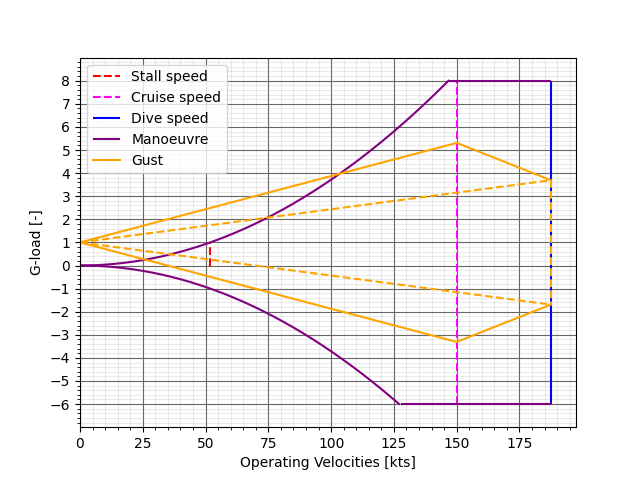
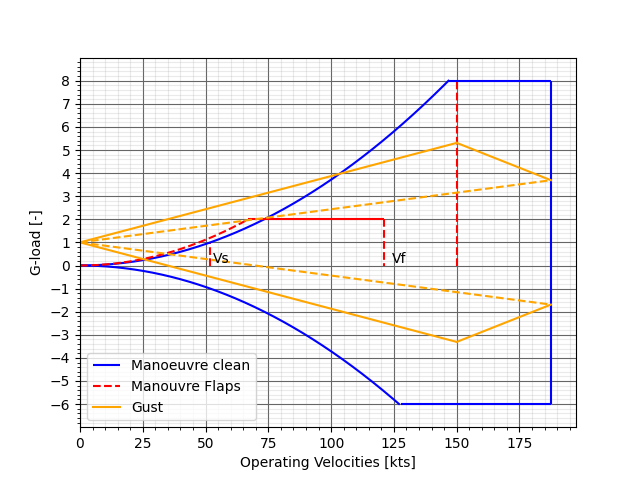
Fix vn

diff --git a/Performance/manoeuvreDiagram.py b/Performance/manoeuvreDiagram.py
@@ -18,18 +18,24 @@ n_max = 8
 n_min = -6
 wing_loading = W / S
 
+CLmax_flap = 1.92
+
+# Gust load parameters
 mu_g = (2 * wing_loading) / (density * MAC * a * 9.80065)
 k_g = (0.88 * mu_g) / (5.3 + mu_g)
 U_de_cruise = 0.3048 * 50
 U_de_dive = 0.3048 * 25
 
+# Speed initializations
 V = np.linspace(0, 160 * metersps, 1000)
 V_cruise = 150 * 0.514444
 V_dive = 1.25 * V_cruise
 q = 0.5 * V ** 2  * density
 
-n_pos = (q * CNmax * S) / W
-n_neg = (q * -CNmax * S) / W
+n_posClean = (q * CNmax * S) / W
+n_negClean = (q * -CNmax * S) / W
+
+n_posFlap = (q * CLmax_flap * S) / W
 
 n_gust_cruise_pos = 1 + (
     (k_g * density * U_de_cruise * V_cruise * a) / (2 * wing_loading)
@@ -42,43 +48,46 @@ n_gust_dive_pos = 1 + ((k_g * density * U_de_dive * V_dive * a) / (2 * wing_load
 n_gust_dive_neg = 1 - ((k_g * density * U_de_dive * V_dive * a) / (2 * wing_loading))
 
 for i in range(len(V)):
-    # if mt.isclose(n_pos[i], 1, rel_tol=0.01):
+    # if mt.isclose(n_posClean[i], 1, rel_tol=0.01):
     #     V_stall = V[i]
-    if mt.isclose(n_neg[i], n_min, rel_tol=0.01):
+    if mt.isclose(n_negClean[i], n_min, rel_tol=0.01):
         V_prime = V[i]
+    if mt.isclose(n_posFlap[i], 2, rel_tol=0.01):
+        V_sf = V[i]
 
 V_stall = (W /(0.5*density*CLmax*S))**0.5
 V_manu = V_stall * np.sqrt(n_max)
+V_f = 1.8*V_sf
 
 plt.xlim(0, V_dive*kts+10)
 plt.ylim(-7, 9)
 
-# Speed 
-plt.vlines(V_stall*kts , ymax=1.01, ymin=0, color="red", label="Stall speed", linestyle="--")
-# plt.vlines(
-#     V_prime, ymax=0, ymin=n_min, color="black", linestyle="--"
-# )
+plt.vlines(V_stall*kts , ymax=1.01, ymin=0, color="brown", linestyle="--")
 plt.vlines(
     V_cruise*kts ,
     ymax=n_max,
     ymin=n_min,
-    color="fuchsia",
-    label="Cruise speed",
+    color="brown",
     linestyle="--",
 )
+plt.vlines(V_dive*kts , ymax=n_max, ymin=n_min, color="blue")
 
-n_pos = [n_pos[i] for i in range(len(n_pos)) if n_pos[i] <=n_max]
-n_neg = [n_neg[i] for i in range(len(n_neg)) if n_neg[i] >=n_min]
+n_posClean = [n_posClean[i] for i in range(len(n_posClean)) if n_posClean[i] <=n_max]
+n_negClean = [n_negClean[i] for i in range(len(n_negClean)) if n_negClean[i] >=n_min]
 
-plt.vlines(V_dive*kts , ymax=n_max, ymin=n_min, color="Blue", label="Dive speed")
+n_posFlap = [n_posFlap[i] for i in range(len(n_posFlap)) if n_posFlap[i] <=2]
+
+
 
 vplot = V *kts
 # Manoeuvre Diagram
-plt.hlines(n_max, xmin=V_manu*kts, xmax=V_dive*kts, color="purple", label="Manoeuvre")
-plt.hlines(n_min, xmin=V_prime*kts, xmax=V_dive*kts, color="purple")
-plt.plot(vplot[:len(n_pos)], n_pos, color="purple")
-plt.plot(vplot[:len(n_neg)], n_neg, color="purple")
-
+plt.hlines(n_max, xmin=V_manu*kts, xmax=V_dive*kts, color="blue", label="Manoeuvre Clean")
+plt.hlines(n_min, xmin=V_prime*kts, xmax=V_dive*kts, color="blue")
+plt.plot(vplot[:len(n_posClean)], n_posClean, color="blue")
+plt.plot(vplot[:len(n_negClean)], n_negClean, color="blue")
+plt.plot(vplot[:len(n_posFlap)], n_posFlap, color="red", label="Manoeuvre Flaps")
+plt.hlines(2,vplot[:len(n_posFlap)][-1], V_f*kts, color="red",)
+plt.vlines(V_f*kts,2,0,color="red")
 # Dust Diagram
 plt.plot([0, V_cruise*kts], [1, n_gust_cruise_pos], color="orange", label="Gust")
 plt.plot([0, V_cruise*kts], [1, n_gust_cruise_neg], color="orange")
@@ -86,15 +95,17 @@ plt.plot([0, V_dive*kts], [1, n_gust_dive_pos], color="orange", linestyle="--")
 plt.plot([0, V_dive*kts], [1, n_gust_dive_neg], color="orange", linestyle="--")
 plt.plot([V_cruise*kts, V_dive*kts], [n_gust_cruise_pos, n_gust_dive_pos], color="orange")
 plt.plot([V_cruise*kts, V_dive*kts], [n_gust_cruise_neg, n_gust_dive_neg], color="orange")
-plt.plot(
-    [V_dive*kts, V_dive*kts], [n_gust_dive_pos, n_gust_dive_neg], color="orange", linestyle="--"
-)
 
 #Set the grid nicely
 plt.grid(visible=True, which="major", color="#666666", linestyle="-")
 plt.minorticks_on()
 plt.grid(visible=True, which="minor", color="#999999", linestyle="-", alpha=0.2)
 plt.yticks(np.arange(-6,9,1))
+
+plt.text(V_stall*kts,0.1,"$V_s$")
+plt.text(V_f*kts,0.1,"$V_f$")
+plt.text(V_cruise*kts,0.1,"$V_c$")
+plt.text(V_dive*kts,0.1,"$V_D$")
 
 plt.legend(loc="upper left")
 plt.xlabel("Operating Velocities [kts]")
